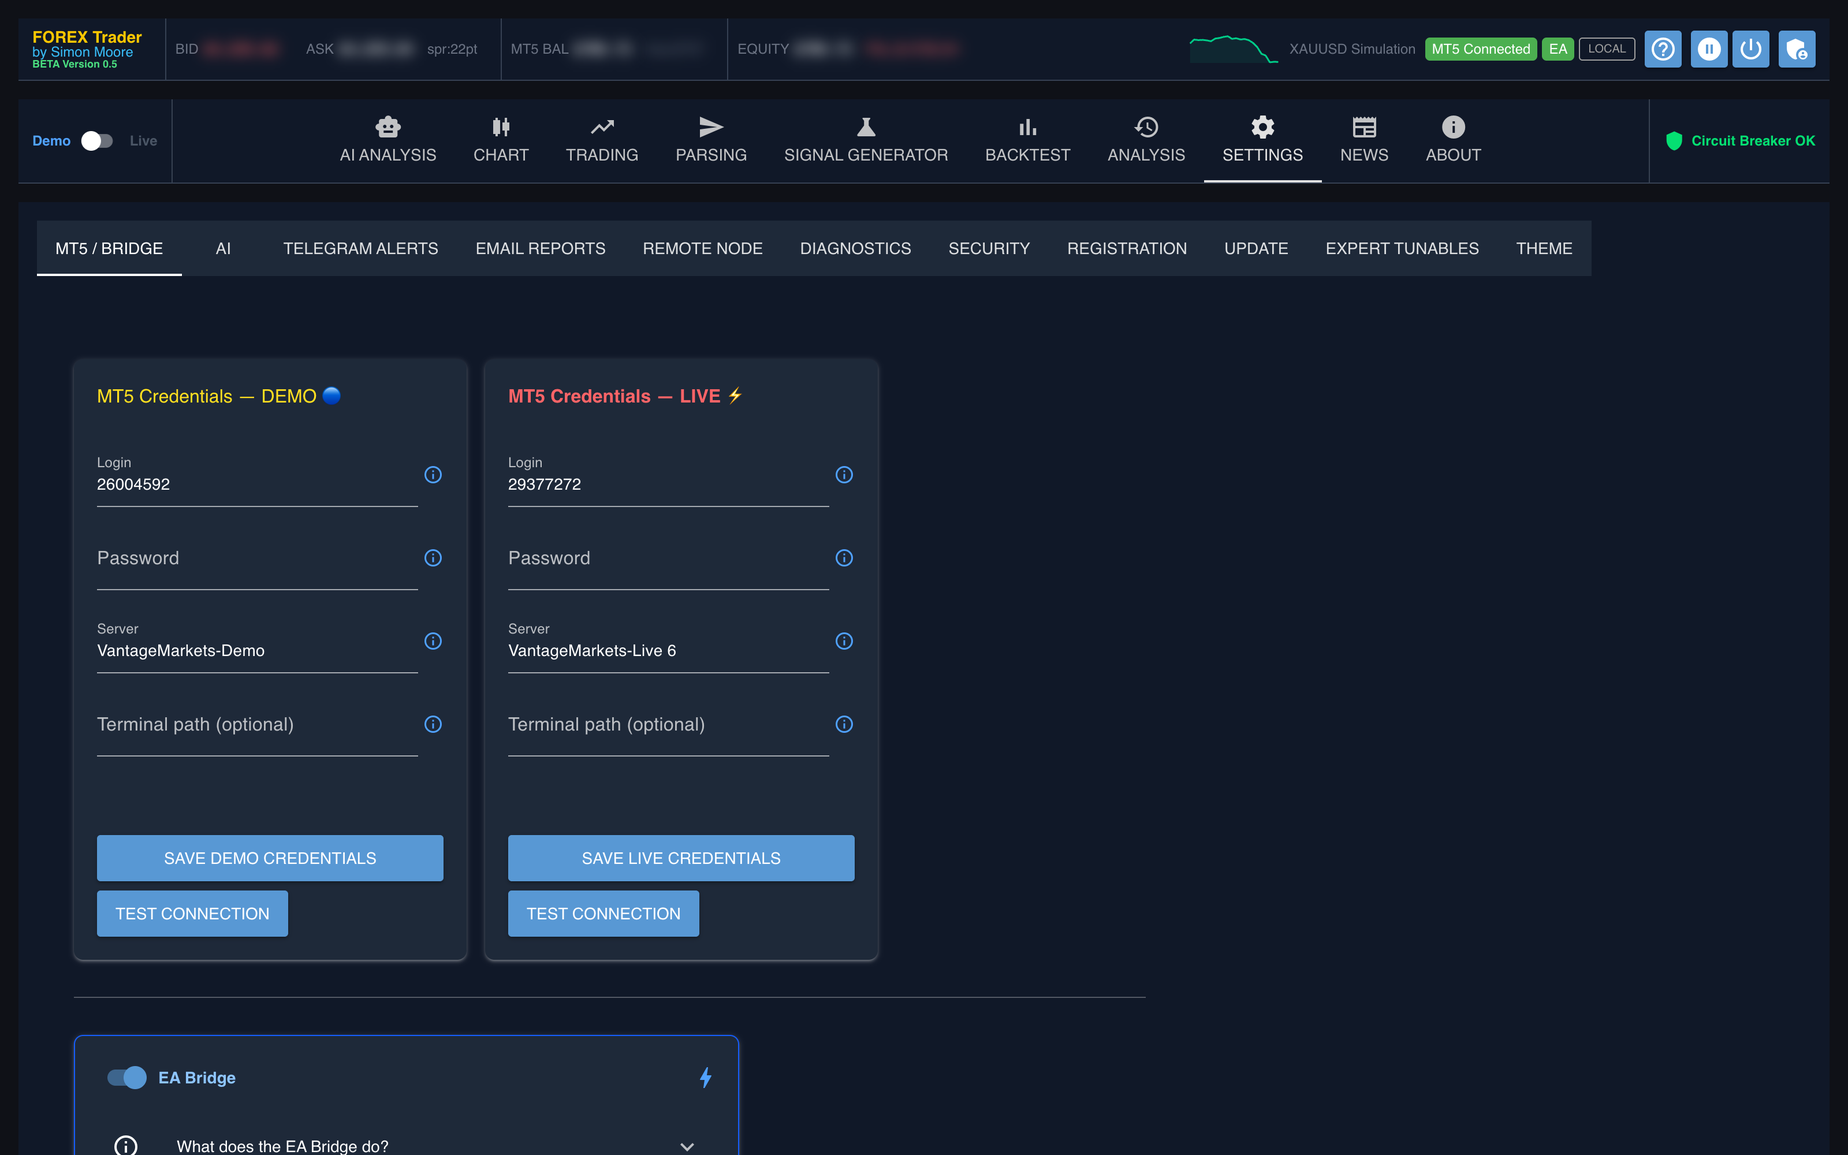
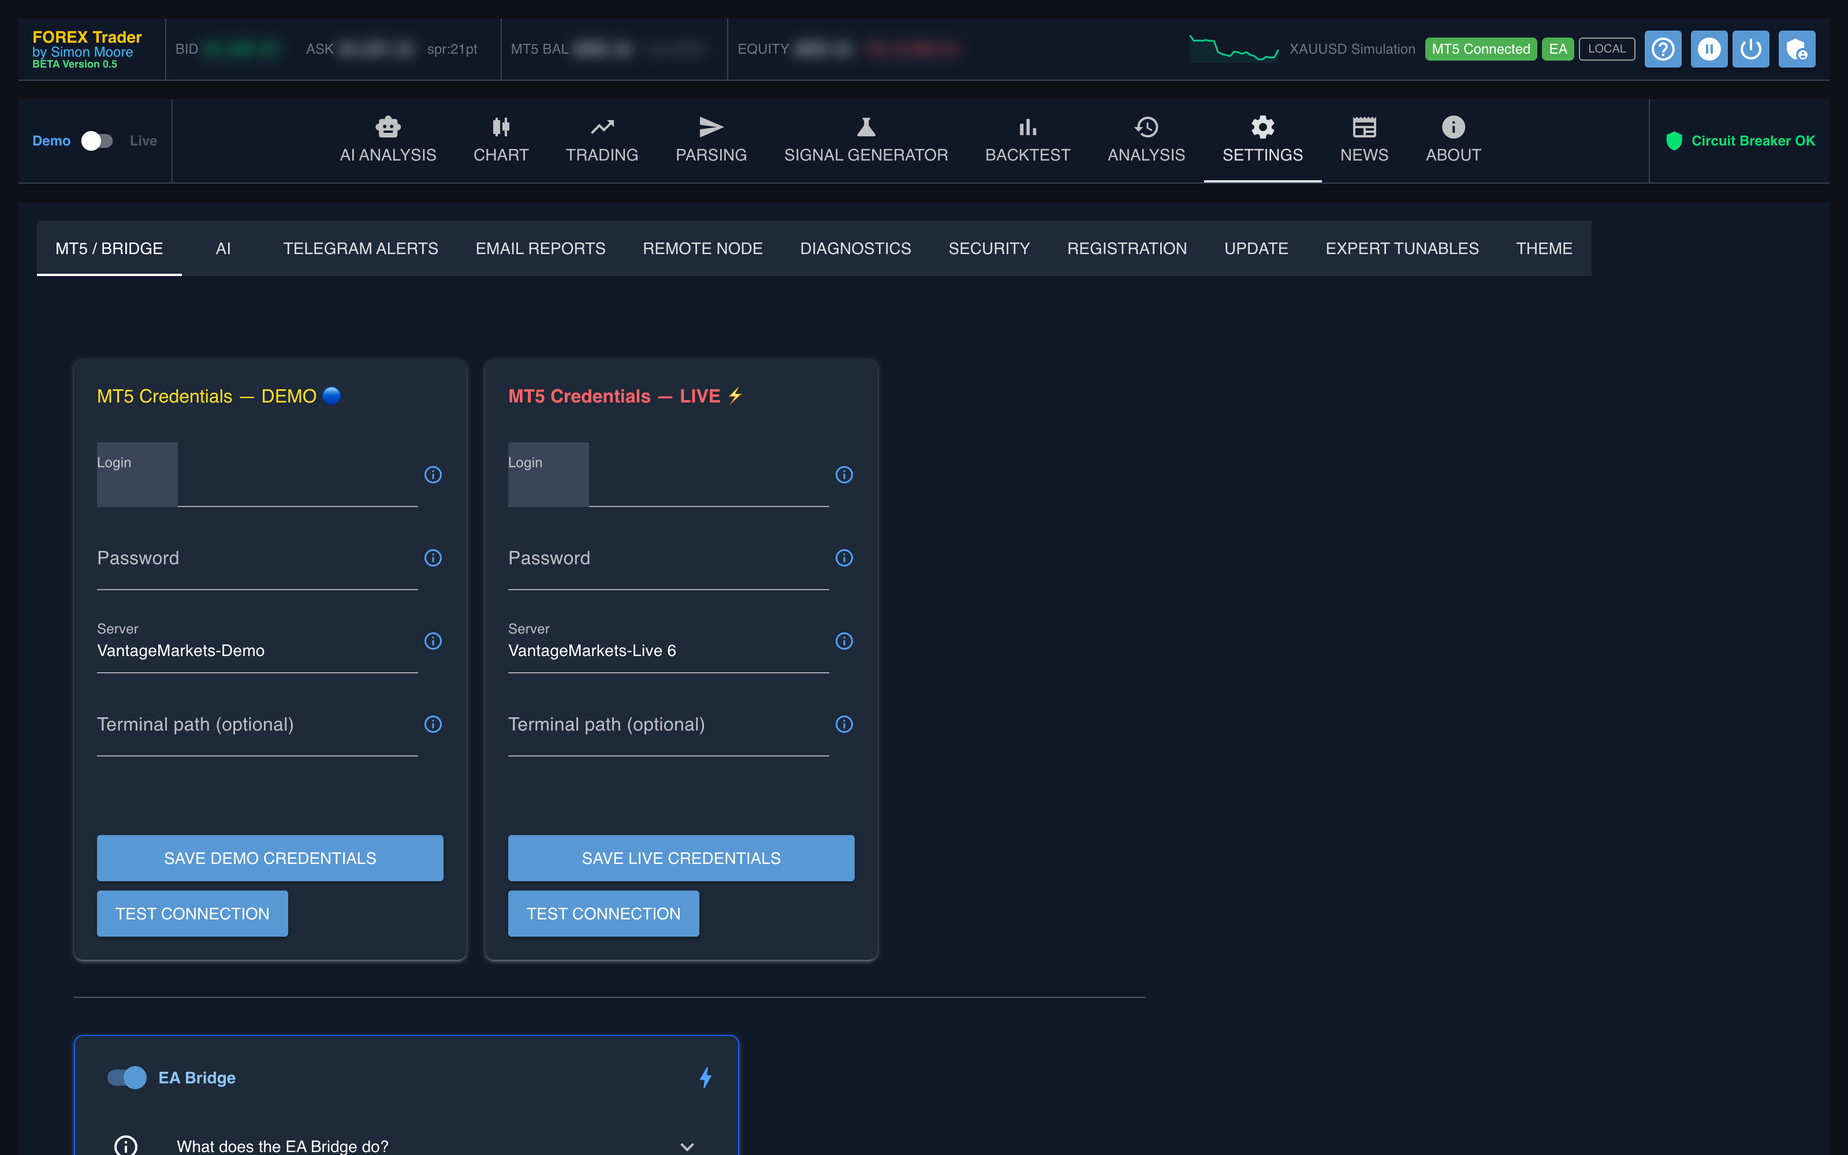
Bring the README up to date, and drop the two-brother framing from the docs
The README had drifted into two halves: a current top and a stale bottom that
still described `forex_trader/`, a layout deleted in the refactor, and claimed
version 0.8.2 against a VERSION file that reads 0.5. Merged into one document
and checked every claim against the tree:

- ~7,700 tests, not ~2,000 (7,723 collected)
- nine structural checks in `tools.checks gates`, not four gates
- coverage figures read from tools/refactor_audit/coverage_baseline.json
- engines are breakout and reversal; the Bounce engine was deleted in 221b934
- dropped the claim that `backend/src/controllers/remote/` is untested --
  that path no longer exists

Added four screenshots under docs/images/. They come from the live app because
debug mode cannot boot (debug_guard rejects the real MT5 bridge and the
fake-bridge seam never landed), so the account numbers are blocked out and the
balance, equity and P&L figures are blurred.

The docs carried a running narrative of one person refactoring the app to hand
it back to his brother, with decisions routed between the two. That split no
longer describes anyone: Simon owns the system and runs the sessions. The
person references are gone -- dev-lane text now says "the developer", and
docs/todo/refactor/darren-decisions/ is docs/todo/refactor/dev-decisions/.

One mention survives, in docs/todo/refactor/stage0/phase-0-audit/QUESTIONS.md,
which CLAUDE.md forbids editing as an audit trail.

python -m tools.checks all: 11/11 green, suite included.

diff --git a/backend/migrations/__init__.py b/backend/migrations/__init__.py
@@ -1,6 +1,6 @@
 """Database schema: base DDL, the numbered migration registry, and backfills.
 
-Moved out of backend/src/db/ (2026-08-11, Darren's call) so schema
+Moved out of backend/src/db/ (2026-08-11, the developer's call) so schema
 *evolution* lives apart from the runtime data-access layer:
 
 - schema_sql.py  — the base CREATE TABLE DDL. Deliberately WITHOUT the

diff --git a/README.md b/README.md
@@ -1,11 +1,17 @@
 # FOREX Trader
 
-An automated XAUUSD (gold) trading application. It reads signals from Telegram
-channels, applies risk rules, places and manages real orders through
-MetaTrader 5, and shows everything in a local web dashboard.
+An automated XAUUSD (gold) trading application. It runs its own signal engines,
+reads signals from Telegram channels, applies risk rules, places and manages
+real orders through MetaTrader 5, and shows everything in a local web
+dashboard.
 
 > **This trades real money on a live broker account.**
+> Enabling the MT5 bridge and the order controls places real orders against a
+> real account. Nothing here is financial advice — use at your own risk, and
+> confirm your risk settings before connecting a live account.
 > If you are an AI agent, read [CLAUDE.md](CLAUDE.md) before changing anything.
+
+![The chart tab](docs/images/dashboard-chart.png)
 
 ---
 
@@ -19,20 +25,40 @@ python run.py
 The dashboard opens at **http://localhost:8888**.
 
 You will need a licence key on first run, and MT5 credentials configured under
-**Settings → MT5**.
+**Settings → MT5 / Bridge**.
 
 | Script | What it does |
 |---|---|
 | `python run.py` | start the app |
 | `Setup & Start FOREX.bat` | Windows: install deps and start |
+| `FOREX_Trader_Setup.exe` | Windows: guided install |
 | `FOREX Start.command` | macOS: start |
 | `Start MT5 Bridge.command` | macOS: start the MT5 bridge alone |
+| `Stop FOREX.bat` / `FOREX Stop.command` | stop the app |
+
+**Requirements**
+
+- Python 3.11+
+- A MetaTrader 5 terminal with a broker account (demo or live)
+- Windows: the `MetaTrader5` Python package (installed automatically, Windows only)
+- macOS: the Wine-based MT5 bridge, plus `libomp` and `git` (auto-installed via
+  Homebrew on first run if missing — see `FOREX Start.command` and
+  `setup_wine_bridge.sh`)
+
+On first launch a default `config.yaml` is created from `config.yaml.example` in
+your user data directory (`%APPDATA%\ForexTrader` on Windows,
+`~/Library/Application Support/ForexTrader` on macOS). Nothing in it needs
+editing by hand — every credential is entered through the Settings screens.
+
+If macOS refuses to open the launcher, see
+[macOS: "was blocked to protect your Mac"](#macos-was-blocked-to-protect-your-mac).
 
 ## What it does
 
-**Signals in.** Watches configured Telegram channels, parses entry/SL/TP out of
-messages (several channel formats, plus an AI fallback for format drift), and
-deduplicates reposts and edits.
+**Signals in.** Runs its own engines (breakout/ORB and reversal) and watches
+configured Telegram channels, parsing entry/SL/TP out of messages (several
+channel formats, plus an AI fallback for format drift) and deduplicating
+reposts and edits.
 
 **Decisions.** A signal must survive staleness checks, logic-keyword filters, a
 minimum reward:risk floor, a cap on correlated open trades, session and
@@ -41,15 +67,23 @@ every position from risk percentage and the real stop distance.
 
 **Orders out.** Places market or pending orders via the MT5 bridge, then
 manages each trade to its strategy: scale-out ladders, breakeven runners,
-trailing stops, ORB/IVB fixed setups, and more. Take-profit ladders are polled
-sub-second because gold levels can sit a point apart.
+trailing stops, ORB/IVB fixed setups, basket harvesting, and more.
+Take-profit ladders are polled sub-second because gold levels can sit a point
+apart.
+
+![The trading tab](docs/images/dashboard-trading.png)
 
 **Watching.** Reconciles the app's view against what the broker actually holds,
-recovers from bridge outages, syncs realised profit, and alerts to Telegram.
+recovers from bridge outages, syncs realised profit, runs a circuit breaker
+that pauses new trades after a run of losses, and alerts to Telegram.
 
-**Extras.** Three research engines (breakout, reversal, test-signal), an ORB/IVB
-report, AI trade commentary, backtesting, email reports, and an optional paired
-Mac + VPS setup where one node trades and the other watches.
+**Extras.** Backtesting every strategy template side by side against historical
+candles or your own closed trades, an ORB/IVB report, AI trade commentary,
+email reports, and a remote client/admin fleet so several deployed instances
+(VPS, test machines, customer installs) can be monitored and updated from one
+admin console.
+
+![The backtest tab](docs/images/dashboard-backtest.png)
 
 ## Layout
 
@@ -65,10 +99,13 @@ backend/src/
     services/           all the behaviour, one package per domain
     controllers/        translates between the UI and the services
     utils/              bottom of the stack
+backend/migrations/     numbered, tested schema upgrade steps
 
 frontend/               NiceGUI dashboard — pages only, no database access
-
-tests/                  ~2,000 tests
+mql5/                   MetaTrader 5 EA and indicator source
+installer/              Inno Setup installer source (see installer/BUILD_INSTALLER.md)
+notebooks/              research notebooks
+tests/                  ~7,700 tests
 tools/                  the checks that keep the structure honest
 docs/                   rules, specs, architecture, history
 ```
@@ -82,22 +119,35 @@ controller. This is enforced, not conventional — see
 ## Developing
 
 ```bash
-pytest tests/ -q                # full suite, ~5 minutes
+pytest tests/ -q                # full suite
 python -m tools.checks all      # suite + every gate + boot smoke — run before committing
-python -m tools.checks gates    # structural gates only, ~10 seconds
+python -m tools.checks gates    # structural gates only, ~12 seconds
 ```
 
-Four structural gates run on every test run and only ever tighten:
+`tools.checks gates` runs nine checks, and they only ever tighten:
 
-| Gate | Enforces |
+| Check | Enforces |
 |---|---|
-| structure | file size, no SQL outside the data layer, no UI database access, declared transactions |
+| structure gates | file size, no SQL outside the data layer, no UI database access, declared transactions |
 | import contracts | the layering rules, by name |
-| facade audit | `TradingRuntime` only shrinks; its public surface is allowlisted |
-| orphan detector | no extracted code that nothing calls |
+| runtime facade | `TradingRuntime` only shrinks; its public surface is allowlisted |
+| orphan modules | no extracted code that nothing calls |
+| undefined names | nothing left dangling by a file split |
+| unawaited coroutines | no coroutine created and dropped |
+| late binding | no import-time capture of a value that changes |
+| boot smoke | the app still starts |
+| doc links | every relative Markdown link resolves |
 
 Plus a per-area coverage ratchet: coverage may rise, never fall, and the
 money-critical areas carry hand-set floors.
+
+## Settings
+
+Every credential and tunable is entered in the app, under **Settings** — MT5 and
+the EA bridge, Telegram, AI, email reports, the remote node, security,
+registration, updates and the expert tunables.
+
+![The settings tab](docs/images/dashboard-settings.png)
 
 ## The rules
 
@@ -124,135 +174,82 @@ fail, and run all the checks before committing.
 
 ## Status
 
-Version `0.8.2` — see [CHANGELOG.md](CHANGELOG.md).
+Version `0.5` — see [CHANGELOG.md](CHANGELOG.md).
 
-Suite: ~2,000 tests, 0 failing. Coverage is high on the trading logic
-(`trading` 88%, `risk` 87%, `positions` 86%, `signals` 84%, `db` 92%) and low
-on the UI pages by design — those are covered by import and boot tests instead.
+Suite: ~7,700 tests. Coverage is high on the trading logic (`signals` 90%,
+`trading` 90%, `risk` 89%, `positions` 88%, `db` 95%) and low on the UI pages by
+design — those are covered by import and boot tests instead. The per-area
+floors live in
+[tools/refactor_audit/coverage_baseline.json](tools/refactor_audit/coverage_baseline.json).
 
-Known gaps and open decisions are tracked in
-[docs/todo/refactor/stage0/OPEN_QUESTIONS.md](docs/todo/refactor/stage0/OPEN_QUESTIONS.md).
-The largest is that `backend/src/controllers/remote/` — licence-token issuance
-and admin authority — has no tests yet.
+Open decisions and known gaps are tracked in
+[docs/simon-handover/](docs/simon-handover/) and [docs/todo/](docs/todo/).
 
-XAUUSD (Gold) trading app with a [NiceGUI](https://nicegui.io) web frontend, a MetaTrader 5
-bridge, and Telegram-based signal copying — built to run either as a local desktop app or
-unattended on a VPS.
+## Updating
 
-> **This is a live trading system, not a demo.** Enabling the MT5 bridge and Market Order
-> controls places real orders against a real broker account. Nothing here is financial advice —
-> use at your own risk, and confirm your risk settings before connecting a live account.
+Deployed instances can self-update from GitHub (**Settings → Update**) once
+running as a git checkout, or be pushed an update directly from the admin
+console — see `backend/src/services/positions/core_app_update.py` and
+`backend/src/services/cluster/`.
 
-## What it does
+## macOS: "was blocked to protect your Mac"
 
-- Runs one or more signal engines (breakout/ORB, Telegram-copy, reversal) that generate and
-  optionally auto-execute trades against MetaTrader 5.
-- Connects to MT5 natively on Windows, or through Wine on macOS (see `Start MT5 Bridge.command`
-  / `setup_wine_bridge.sh`).
-- Reads Telegram channels for third-party signals and can mirror, score, or auto-manage them.
-- A NiceGUI web UI (Trading, History, Settings, Reversal Panel, etc.) served locally at
-  `http://localhost:8888`.
-- A remote client/admin fleet system (`forex_trader/remote/`) so multiple deployed instances
-  (VPS, test machines, customer installs) can be monitored, diagnosed, and updated from one
-  admin console.
-
-## Requirements
-
-- Python 3.11+
-- A MetaTrader 5 terminal with an active broker account (demo or live)
-- Windows: the `MetaTrader5` Python package (installed automatically, Windows only)
-- macOS: Wine-based MT5 bridge, plus `libomp` and `git` (auto-installed via Homebrew on first
-  run if missing — see `FOREX Start.command`)
-
-## Getting started
-
-**Windows** — double-click `Setup & Start FOREX.bat`, or run `FOREX_Trader_Setup.exe` for a
-guided install. Either sets up a Python virtual environment, installs dependencies, and starts
-the app.
-
-**macOS** — double-click `FOREX Start.command`. First run creates a virtual environment,
-installs dependencies, and installs `libomp`/`git` via Homebrew if available. If macOS refuses
-to open the file, see
-[macOS: "was blocked to protect your Mac"](#macos-was-blocked-to-protect-your-mac) below.
-
-On first launch, a default `config.yaml` is created from `config.yaml.example` in your user data
-directory (`%APPDATA%\ForexTrader` on Windows, `~/Library/Application Support/ForexTrader` on
-macOS) — enter your MT5/broker and Telegram credentials from the app's Settings page.
-
-To stop the app, use `Stop FOREX.bat` / `FOREX Stop.command`, or the in-app Power dialog.
-
-### macOS: "was blocked to protect your Mac"
-
-The first time you double-click `FOREX Start.command`, macOS may refuse to run it:
+The first time you double-click `FOREX Start.command`, macOS may refuse to run
+it:
 
 > "FOREX Start.command" was blocked to protect your Mac.
 > Apple could not verify "FOREX Start.command" is free of malware that may harm your Mac or
 > compromise your privacy.
 
-This is Gatekeeper, not a fault with the download. The app is not signed with a paid Apple
-Developer ID, and your browser tags every downloaded file with a quarantine flag, so macOS has
-no signature to check. macOS applies the block to each `.command` file separately, but you only
-have to deal with `FOREX Start.command`: once it runs, it clears the flag from the other
-launchers in the folder (`FOREX Stop`, `Start MT5 Bridge`, `Mac Uninstall`) for you.
+This is Gatekeeper, not a fault with the download. The app is not signed with a
+paid Apple Developer ID, and your browser tags every downloaded file with a
+quarantine flag, so macOS has no signature to check. macOS applies the block to
+each `.command` file separately, but you only have to deal with
+`FOREX Start.command`: once it runs, it clears the flag from the other
+launchers in the folder (`FOREX Stop`, `Start MT5 Bridge`, `Mac Uninstall`) for
+you.
 
-**Best: never get the flag in the first place.** The quarantine flag is applied by the app that
-downloads the files. `git`, `curl` and `tar` do not apply it, so installing from a clone leaves
-nothing to unblock, and keeps the app on the git checkout that Settings > Update needs anyway:
+**Best: never get the flag in the first place.** The quarantine flag is applied
+by the app that downloads the files. `git`, `curl` and `tar` do not apply it, so
+installing from a clone leaves nothing to unblock, and keeps the app on the git
+checkout that Settings → Update needs anyway:
 
 ```bash
 git clone <repo-url> ~/FOREX && open ~/FOREX
 ```
 
-If you were sent a `.zip`, note that unpacking it in Finder marks every file inside it. A
-`.tar.gz` unpacked with `tar -xzf` in Terminal does not.
+If you were sent a `.zip`, note that unpacking it in Finder marks every file
+inside it. A `.tar.gz` unpacked with `tar -xzf` in Terminal does not.
 
-**Already downloaded through a browser?** Clear the flag for the whole folder in one go. Open
-Terminal, type `xattr -dr com.apple.quarantine ` (with the trailing space), drag the FOREX
-folder onto the Terminal window to fill in its path, then press Return:
+**Already downloaded through a browser?** Clear the flag for the whole folder in
+one go. Open Terminal, type `xattr -dr com.apple.quarantine ` (with the trailing
+space), drag the FOREX folder onto the Terminal window to fill in its path, then
+press Return:
 
 ```bash
 xattr -dr com.apple.quarantine ~/Downloads/FOREX
 ```
 
-**Prefer not to use Terminal?** Approve the file through System Settings instead:
+**Prefer not to use Terminal?** Approve the file through System Settings
+instead:
 
 1. Double-click `FOREX Start.command` and dismiss the warning.
-2. Open System Settings > Privacy & Security and scroll down to the Security section.
+2. Open System Settings → Privacy & Security and scroll down to the Security section.
 3. Next to "FOREX Start.command" was blocked, click **Open Anyway**, then authenticate with
    Touch ID or your password and confirm.
 
-You only need to do this for `FOREX Start.command`. On a successful start it clears the flag
-from the other launchers in the folder, so Stop, the MT5 bridge and the uninstaller open
-normally from then on.
-
-On macOS 15 (Sequoia) and later, Ctrl-clicking the file and choosing Open no longer bypasses
-this. System Settings is the only route without Terminal.
+On macOS 15 (Sequoia) and later, Ctrl-clicking the file and choosing Open no
+longer bypasses this. System Settings is the only route without Terminal.
 
 ## Uninstalling
 
-Double-click `Windows Uninstall.bat` or `Mac Uninstall.command`. Both remove the app folder,
-the user data directory, the licence activation, and any Desktop shortcut, after two
-confirmations. On Windows, an install made with `FOREX_Trader_Setup.exe` should instead be
-removed via Settings > Apps, which also clears its registry entries and Start Menu shortcuts.
-
-## Project layout
-
-```
-forex_trader/       Core app: engines, database, UI pages, remote client/server
-installer/          Inno Setup installer source (installer/BUILD_INSTALLER.md has build steps)
-mql5/                MetaTrader 5 EA/indicator source
-tests/               Test suite
-docs/                Planning notes
-run.py               App entry point
-```
-
-## Updating
-
-Deployed instances can self-update from GitHub (Settings > Update page) once running as a git
-checkout, or be pushed an update directly from the admin console — see
-`forex_trader/core/core_app_update.py` and `forex_trader/remote/`.
+Double-click `Windows Uninstall.bat` or `Mac Uninstall.command`. Both remove the
+app folder, the user data directory, the licence activation, and any Desktop
+shortcut, after two confirmations. On Windows, an install made with
+`FOREX_Trader_Setup.exe` should instead be removed via Settings → Apps, which
+also clears its registry entries and Start Menu shortcuts.
 
 ## License
 
-Private project — no open-source license is granted. Source is public for deployment/update
-tooling purposes only.
+Private project — no open-source license is granted. Source is public for
+deployment/update tooling purposes only.

diff --git a/docs/system/rules/00-start-here.md b/docs/system/rules/00-start-here.md
@@ -59,9 +59,9 @@ Asking costs one message. The alternative has cost real money here before.
 
 ## Questions you cannot answer go in `docs/simon-handover/`
 
-The person running the sessions (Darren) is refactoring this for his brother **Simon**, who holds
-the live account, the credentials and the licence, and who makes every trading, risk and money
-decision. **Darren usually cannot answer those questions — Simon does.**
+**Simon** owns this system. He holds the live account, the credentials and the licence, and he
+makes every trading, risk and money decision. **An agent cannot answer those questions — Simon
+does.**
 
 So when you hit a decision that isn't yours to make from the code, the rules or a safe default —
 especially anything about trading policy, risk numbers, money-path behaviour or licensing — **do not

diff --git a/docs/README.md b/docs/README.md
@@ -71,8 +71,8 @@ The working method:
    safe default is chosen and the system is built to run on it.
 3. **Make sure it runs** — every provisional default is one the app works under
    today (green suite, boots, safe on demo).
-4. **Hand the queue over** — the owner's brother (who holds the trading and
-   business calls) reviews [simon-handover/](simon-handover/) in one pass and confirms or
+4. **Hand the queue over** — the owner (who holds the trading and business
+   calls) reviews [simon-handover/](simon-handover/) in one pass and confirms or
    overrides each. An answered question is annotated, never deleted.
 
 A provisional default is never a silent one: each file in `simon-handover/` records

diff --git a/CLAUDE.md b/CLAUDE.md
@@ -9,8 +9,8 @@ changing anything. It is short and it is not optional.
 locally, current state, and where the work is tracked.
 
 **A question you can't answer** (trading policy, risk numbers, money behaviour, licensing) goes in
-**[docs/simon-handover/](docs/simon-handover/)** — the owner's brother Simon answers those; the person running
-the sessions usually can't. Choose a safe provisional default, proceed, and record the open decision.
+**[docs/simon-handover/](docs/simon-handover/)** — the owner answers those; an agent can't. Choose a safe
+provisional default, proceed, and record the open decision.
 
 ---
 

diff --git a/notebooks/README.md b/notebooks/README.md
@@ -10,7 +10,7 @@ place a trade, touch MT5, or change the backend. Break anything you like.
 hunch. Test the idea in this folder against the recorded data. If a test
 shows genuinely positive results — across different days, not just one lucky
 afternoon — *then* ask the AI agent to promote it into the main system
-(properly versioned, with Simon/Darren sign-off on anything money-related).
+(properly versioned, with Simon sign-off on anything money-related).
 
 ## How to use it
 
